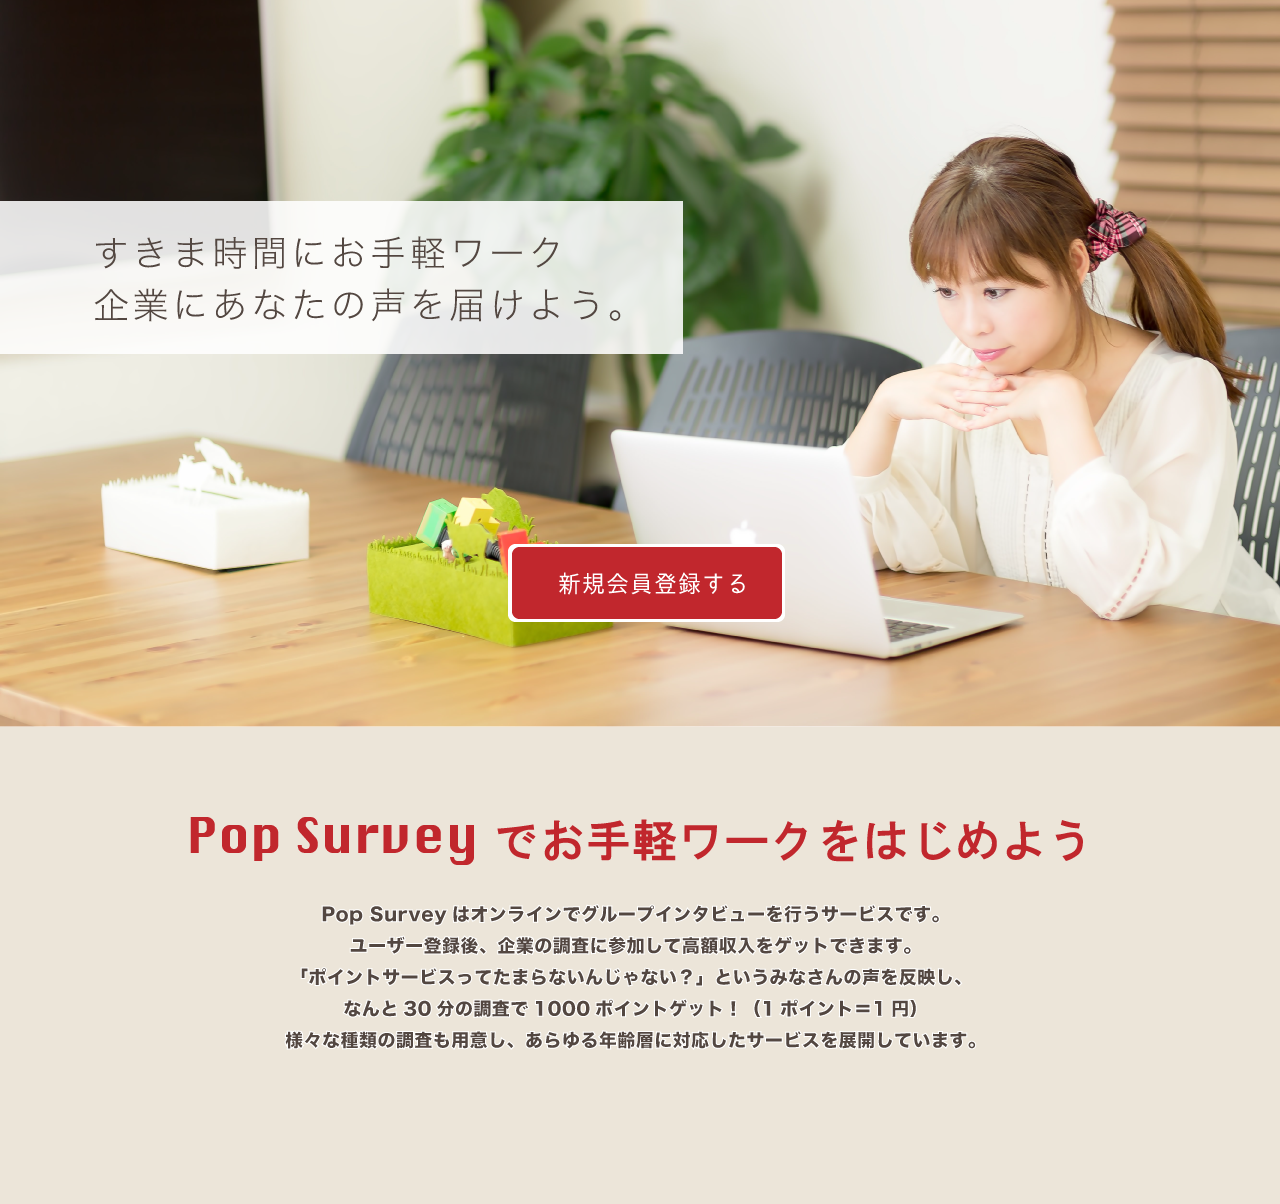
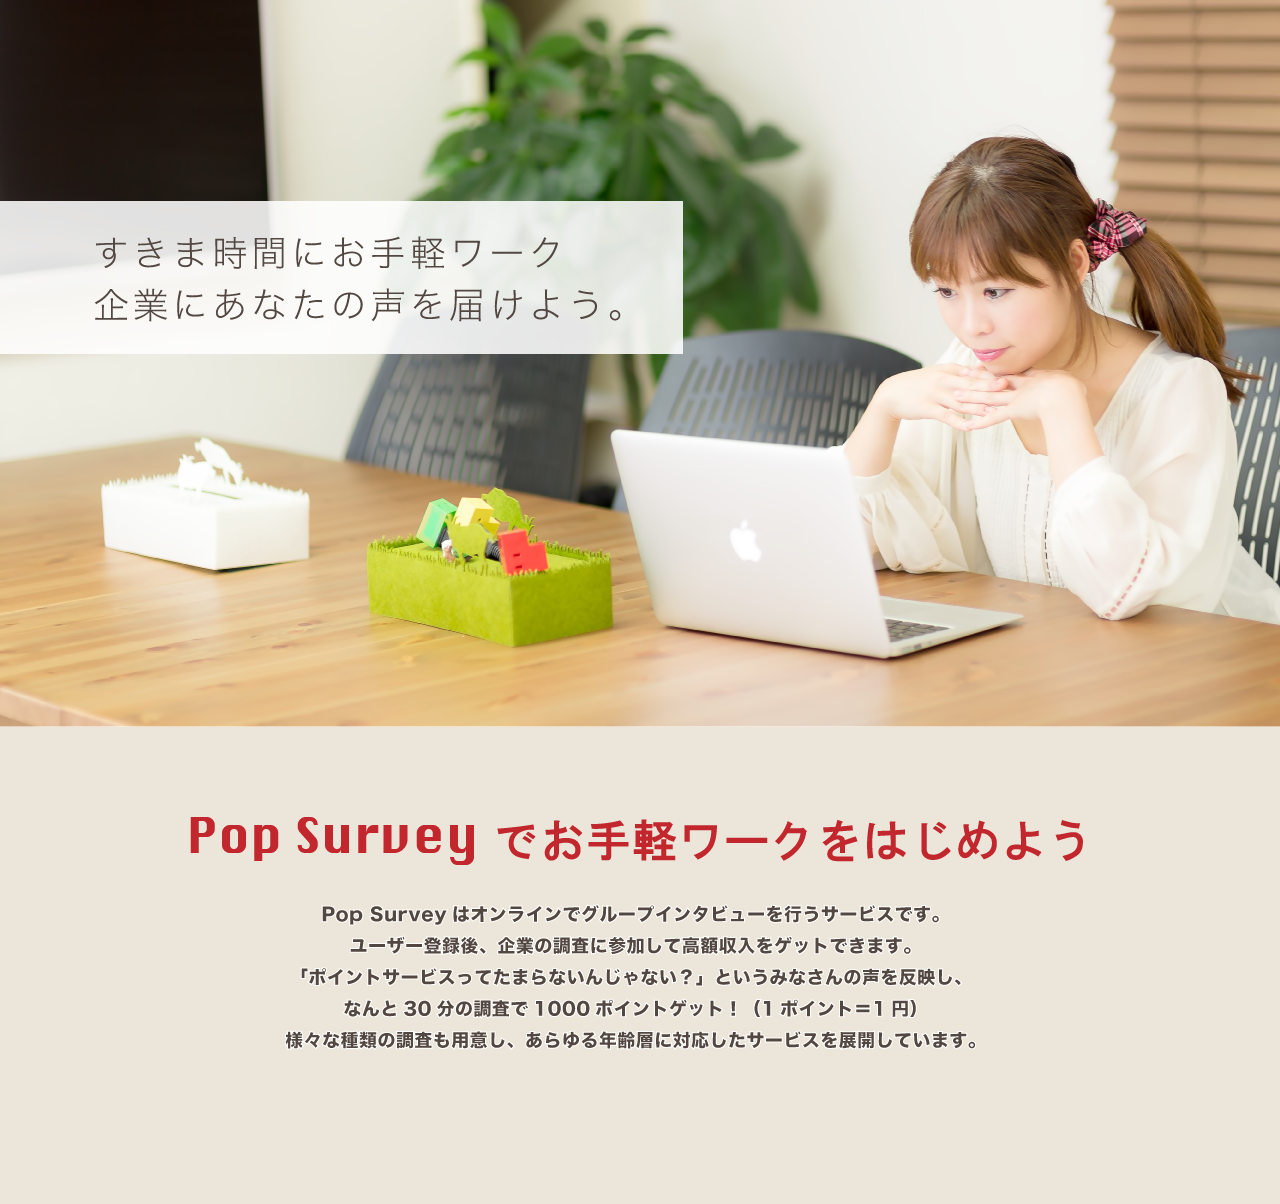
rev user top

Changed region(s): [[0.375, 0.4302, 0.625, 0.5224]]

diff --git a/app/assets/stylesheets/home.scss b/app/assets/stylesheets/home.scss
@@ -22,6 +22,10 @@ div#client_top{
   text-align: center; 
 }
 
+div.user-sign-up{
+  height: 200px;
+  margin: 0 auto;
+}
 
 div.btn-sign-up{
   position: relative;
@@ -31,6 +35,6 @@ div.btn-sign-up{
 
 a.btn-sign-up{
   width: 100%; 
+  height: 30%;
 }
-
 
